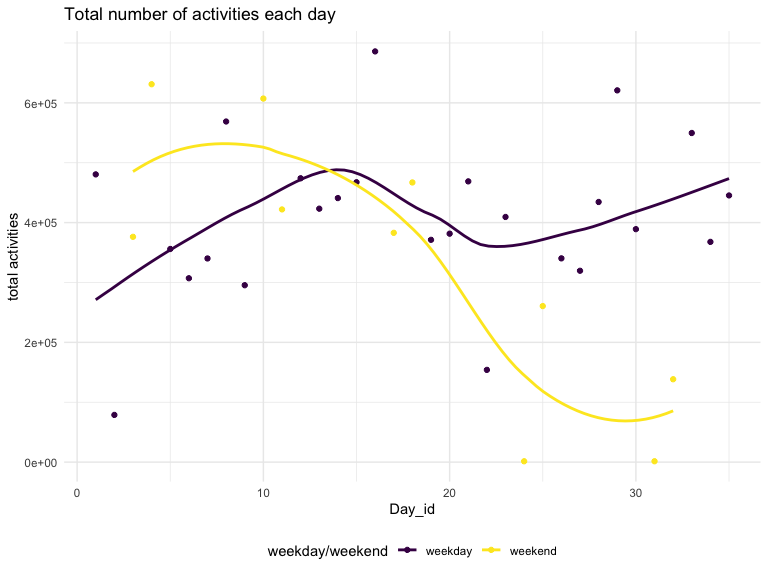
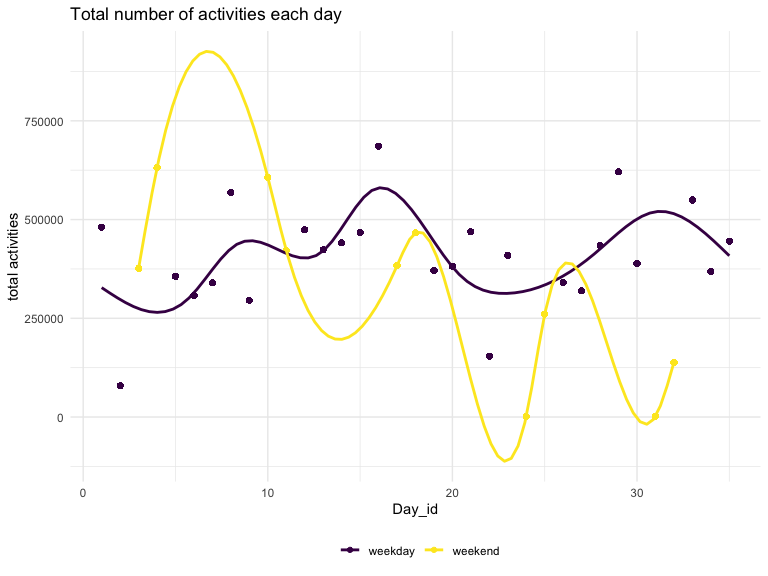
clean 'accel_data' and describe cleanned dataset.updated figure shows the total activities count and describe trends.

diff --git a/P8105_hw3_qx2222.md b/P8105_hw3_qx2222.md
@@ -161,8 +161,7 @@ instacart %>%
 1.  Load, tidy, and otherwise wrangle the data. Your final dataset
     should include all originally observed variables and values; have
     useful variable names; include a weekday vs weekend variable; and
-    encode data with reasonable variable classes. Describe the resulting
-    dataset (e.g. what variables exist, how many observations, etc).
+    encode data with reasonable variable classes.
 
 ``` r
 accel_data = read_csv("data/accel_data.csv") %>%
@@ -173,8 +172,7 @@ accel_data = read_csv("data/accel_data.csv") %>%
   arrange(week, day) %>%
   mutate(minute = as.integer(minute)) %>%
   mutate(weekday_or_weekend = if_else(day %in% c("Saturday", "Sunday"), "weekend", "weekday" )) %>%
-  mutate(weekday_or_weekend = factor(weekday_or_weekend)) %>%
-  mutate(hour = minute/60) 
+  mutate(weekday_or_weekend = factor(weekday_or_weekend))
 ```
 
     ## Rows: 35 Columns: 1443
@@ -190,20 +188,29 @@ accel_data = read_csv("data/accel_data.csv") %>%
 accel_data
 ```
 
-    ## # A tibble: 50,400 × 7
-    ##     week day_id day    minute activities weekday_or_weekend   hour
-    ##    <dbl>  <dbl> <chr>   <int>      <dbl> <fct>               <dbl>
-    ##  1     1      1 Friday      1       88.4 weekday            0.0167
-    ##  2     1      1 Friday      2       82.2 weekday            0.0333
-    ##  3     1      1 Friday      3       64.4 weekday            0.05  
-    ##  4     1      1 Friday      4       70.0 weekday            0.0667
-    ##  5     1      1 Friday      5       75.0 weekday            0.0833
-    ##  6     1      1 Friday      6       66.3 weekday            0.1   
-    ##  7     1      1 Friday      7       53.8 weekday            0.117 
-    ##  8     1      1 Friday      8       47.8 weekday            0.133 
-    ##  9     1      1 Friday      9       55.5 weekday            0.15  
-    ## 10     1      1 Friday     10       43.0 weekday            0.167 
+    ## # A tibble: 50,400 × 6
+    ##     week day_id day    minute activities weekday_or_weekend
+    ##    <dbl>  <dbl> <chr>   <int>      <dbl> <fct>             
+    ##  1     1      1 Friday      1       88.4 weekday           
+    ##  2     1      1 Friday      2       82.2 weekday           
+    ##  3     1      1 Friday      3       64.4 weekday           
+    ##  4     1      1 Friday      4       70.0 weekday           
+    ##  5     1      1 Friday      5       75.0 weekday           
+    ##  6     1      1 Friday      6       66.3 weekday           
+    ##  7     1      1 Friday      7       53.8 weekday           
+    ##  8     1      1 Friday      8       47.8 weekday           
+    ##  9     1      1 Friday      9       55.5 weekday           
+    ## 10     1      1 Friday     10       43.0 weekday           
     ## # … with 50,390 more rows
+
+Describe the resulting dataset:
+
+This cleaned dataset has 50400 observations and 6 varibales, such as
+week, day_id, day, minute, activities, weekday_or_weekend. In those
+varibales, week,day_id, day, minute shows the exact time of collected
+data. variable activities shows the number of activity happened in each
+time. Finally, weekday_or_weekend variable we created shows data
+collected in weekday or weekend.
 
 2.  Using your tidied dataset, aggregate across minutes to create a
     total activity variable for each day, and create a table showing
@@ -211,27 +218,26 @@ accel_data
 
 ``` r
 totals_table  = accel_data %>% group_by(day_id) %>%
-  mutate(total = sum(activities)) %>%
-  distinct(week,day,total, weekday_or_weekend) 
+  mutate(total = sum(activities))
 
 totals_table
 ```
 
-    ## # A tibble: 35 × 5
+    ## # A tibble: 50,400 × 7
     ## # Groups:   day_id [35]
-    ##     week day_id day       weekday_or_weekend   total
-    ##    <dbl>  <dbl> <chr>     <fct>                <dbl>
-    ##  1     1      1 Friday    weekday            480543.
-    ##  2     1      2 Monday    weekday             78828.
-    ##  3     1      3 Saturday  weekend            376254 
-    ##  4     1      4 Sunday    weekend            631105 
-    ##  5     1      5 Thursday  weekday            355924.
-    ##  6     1      6 Tuesday   weekday            307094.
-    ##  7     1      7 Wednesday weekday            340115.
-    ##  8     2      8 Friday    weekday            568839 
-    ##  9     2      9 Monday    weekday            295431 
-    ## 10     2     10 Saturday  weekend            607175 
-    ## # … with 25 more rows
+    ##     week day_id day    minute activities weekday_or_weekend   total
+    ##    <dbl>  <dbl> <chr>   <int>      <dbl> <fct>                <dbl>
+    ##  1     1      1 Friday      1       88.4 weekday            480543.
+    ##  2     1      1 Friday      2       82.2 weekday            480543.
+    ##  3     1      1 Friday      3       64.4 weekday            480543.
+    ##  4     1      1 Friday      4       70.0 weekday            480543.
+    ##  5     1      1 Friday      5       75.0 weekday            480543.
+    ##  6     1      1 Friday      6       66.3 weekday            480543.
+    ##  7     1      1 Friday      7       53.8 weekday            480543.
+    ##  8     1      1 Friday      8       47.8 weekday            480543.
+    ##  9     1      1 Friday      9       55.5 weekday            480543.
+    ## 10     1      1 Friday     10       43.0 weekday            480543.
+    ## # … with 50,390 more rows
 
 ``` r
 totals_table %>%
@@ -245,9 +251,15 @@ totals_table %>%
         legend.title = element_blank())
 ```
 
-    ## `geom_smooth()` using method = 'loess' and formula 'y ~ x'
+    ## `geom_smooth()` using method = 'gam' and formula 'y ~ s(x, bs = "cs")'
 
 <img src="P8105_hw3_qx2222_files/figure-gfm/unnamed-chunk-10-1.png" width="90%" />
+
+From the plot we got, we could see the line showed total activities
+counts on weekday is more stable, compared with the line of weekend.
+Besides, for the total activities counts on weekday has sightly
+increasing trend. But for the total activities counts on weekend has
+sightly decreasing trend.
 
 3.  Accelerometer data allows the inspection activity over the course of
     the day. Make a single-panel plot that shows the 24-hour activity
@@ -257,6 +269,7 @@ totals_table %>%
 
 ``` r
 accel_data %>%
+  mutate(hour = minute/60) %>%
   ggplot(aes(x = hour, y = activities, color = day)) +
   geom_point() +
   geom_line(alpha = .5) +
